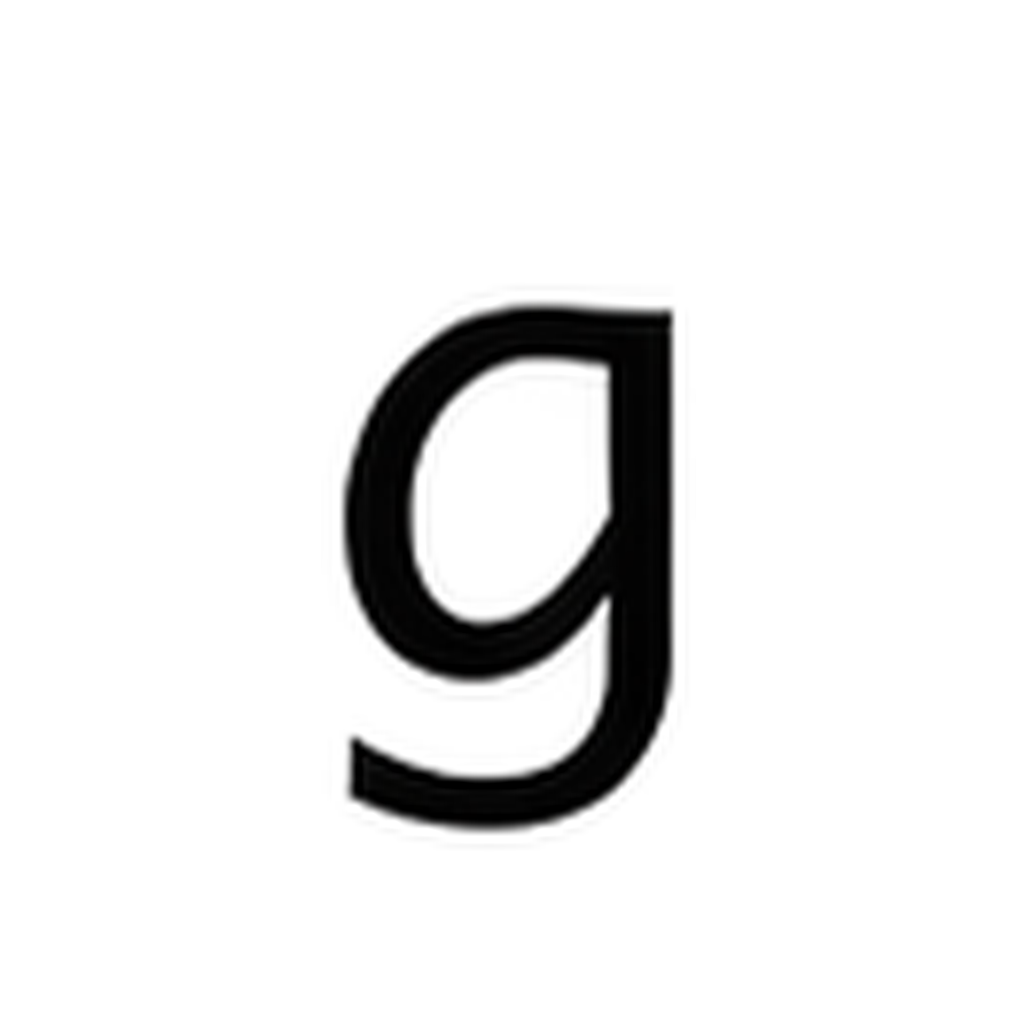
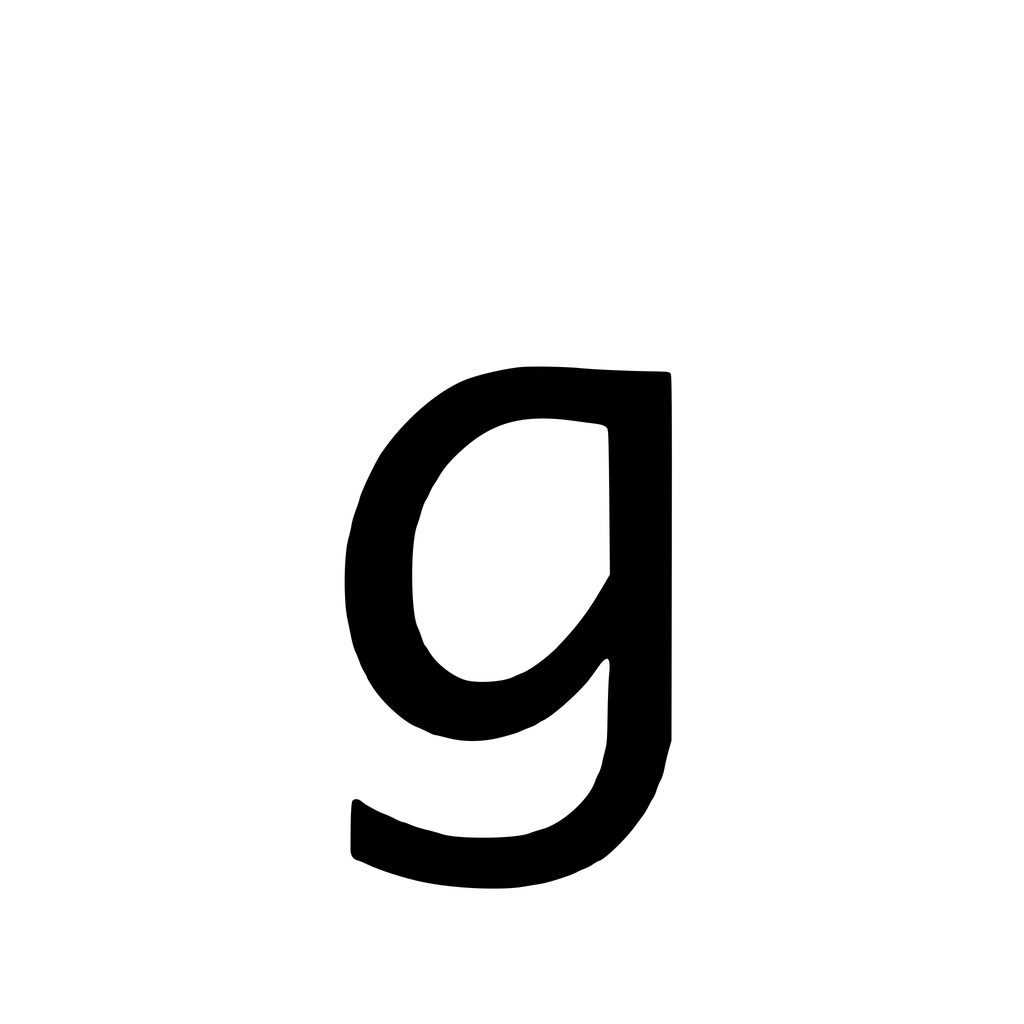
WIP

Changed region(s): [[0.3125, 0.2812, 0.6875, 0.875]]

diff --git a/fonts/font1/regular/preview-font.py b/fonts/font1/regular/preview-font.py
@@ -58,8 +58,8 @@ def specimen(from_font):
     canvas = Image.new("RGB", (1600, 1320), "#fafbfc")
     draw = ImageDraw.Draw(canvas)
     kind = "TrueType rendering" if from_font else "glyph PNG rendering"
-    draw.text((64, 32), f"Font1 Regular 0.201 / {kind}", font=label(24), fill="#1a2735")
-    draw.text((64, 74), "Refined lowercase / original g and s / shorter i and l bars", font=label(18), fill="#586878")
+    draw.text((64, 32), f"Font1 Regular 0.202 / {kind}", font=label(24), fill="#1a2735")
+    draw.text((64, 74), "Refined lowercase / balanced g and p vertical positions", font=label(18), fill="#586878")
 
     def line(text, y, size, x=64):
         if from_font:
@@ -98,7 +98,7 @@ def comparison():
     draw = ImageDraw.Draw(canvas)
     for row, (title, directory) in enumerate([
         ("Monaco", ROOT.parent.parent / "monaco-ascii"),
-        ("font1 Regular 0.201", ROOT),
+        ("font1 Regular 0.202", ROOT),
         ("Droid Sans", ROOT.parent.parent / "droid"),
         ("JetBrains Mono", ROOT.parent.parent / "jetbrains"),
     ]):
@@ -114,7 +114,7 @@ def lowercase_review(before_font):
     canvas = Image.new("RGB", (1600, 1220), "white")
     draw = ImageDraw.Draw(canvas)
     draw.text((64, 30), "Font1 Regular / lowercase refinement", font=label(28), fill="#1a2735")
-    draw.text((64, 79), "Same size and advance. Before 0.100 / After 0.201", font=label(18), fill="#586878")
+    draw.text((64, 79), "Same size and advance. Before 0.100 / After 0.202", font=label(18), fill="#586878")
     for group, characters in enumerate(["abcdefghijklm", "nopqrstuvwxyz"]):
         for revision, (title, font) in enumerate([
             ("Before", before_font), ("After", ROOT / "Font1-Regular.ttf"),
@@ -136,11 +136,11 @@ def lowercase_review(before_font):
 def weight_comparison():
     canvas = Image.new("RGB", (1600, 990), "#fafbfc")
     draw = ImageDraw.Draw(canvas)
-    draw.text((52, 30), "Font1 / Regular 0.201 and Bold", font=label(26), fill="#1a2735")
+    draw.text((52, 30), "Font1 / Regular 0.202 and Bold", font=label(26), fill="#1a2735")
     draw.text((52, 74), "Cap height matched across all three samples", font=label(18), fill="#586878")
     for index, (title, directory) in enumerate([
         ("Monaco Regular", ROOT.parent.parent / "monaco-ascii"),
-        ("font1 Regular 0.201", ROOT),
+        ("font1 Regular 0.202", ROOT),
         ("font1 Bold", ROOT.parent / "bold"),
     ]):
         alpha = np.asarray(Image.open(directory / "glyphs/U0048.png").getchannel("A"))
@@ -158,10 +158,47 @@ def weight_comparison():
     canvas.save(ROOT.parent / "weights-comparison.png")
 
 
+def position_review(before_font):
+    """Compare the changed bowls against shared baseline and x-height guides."""
+    canvas = Image.new("RGB", (1500, 1160), "#fafbfc")
+    draw = ImageDraw.Draw(canvas)
+    draw.text((56, 30), "Font1 Regular / g and p vertical positions", font=label(27), fill="#1a2735")
+    draw.text((56, 78), "Same shapes and advance. Shared baseline / lowercase-height guides.",
+              font=label(18), fill="#586878")
+    for index, (title, font) in enumerate([
+        ("Before 0.201", before_font), ("After 0.202", ROOT / "Font1-Regular.ttf"),
+    ]):
+        x = 56 + index * 720
+        draw.text((x, 129), title, font=label(20), fill="#405269")
+        draw.line((x, 176, x + 658, 176), fill="#c5d9e9")
+        draw.line((x, 260, x + 658, 260), fill="#a4c2dc")
+        font_line(canvas, "angpo", x + 25, 260, 170, font)
+
+    for index, (title, font) in enumerate([
+        ("Before 0.201", before_font), ("After 0.202", ROOT / "Font1-Regular.ttf"),
+    ]):
+        top = 374 + index * 372
+        draw.rounded_rectangle((40, top, 1460, top + 337), radius=12, fill="#20242b")
+        draw.text((70, top + 22), title, font=label(20), fill="#acbed0")
+        for size, offset in [(32, 76), (36, 207)]:
+            face = ImageFont.truetype(str(font), size)
+            draw.text((70, top + offset - 17), f"{size}px", font=label(13), fill="#acbed0")
+            for line_index, text in enumerate([
+                "So this thing really sends me to the future?",
+                "And the passphrase is...",
+                "Good day, Agent M. How is 1997 treating you?",
+            ]):
+                draw.text((146, top + offset + line_index * 43), text,
+                          font=face, fill="white", anchor="ls")
+    canvas.save(ROOT / "vertical-position-review.png")
+
+
 def main():
     parser = argparse.ArgumentParser(description=__doc__)
     parser.add_argument("--before-font", type=Path,
                         help="Optional previous TTF for lowercase-review.png")
+    parser.add_argument("--before-position-font", type=Path,
+                        help="Previous TTF for the g/p vertical-position review")
     arguments = parser.parse_args()
     for from_font in [False, True]:
         overview(from_font)
@@ -170,6 +207,8 @@ def main():
     weight_comparison()
     if arguments.before_font:
         lowercase_review(arguments.before_font)
+    if arguments.before_position_font:
+        position_review(arguments.before_position_font)
     print("Refreshed PNG/TTF overviews, specimens and reference comparison.")
 
 

diff --git a/fonts/font1/regular/build-font.py b/fonts/font1/regular/build-font.py
@@ -151,10 +151,10 @@ def build_font():
     builder.setupNameTable({
         "familyName": "Font1",
         "styleName": "Regular",
-        "uniqueFontIdentifier": "Font1-Regular-0.201",
+        "uniqueFontIdentifier": "Font1-Regular-0.202",
         "fullName": "Font1 Regular",
         "psName": "Font1-Regular",
-        "version": "Version 0.201",
+        "version": "Version 0.202",
         "typographicFamily": "Font1",
         "typographicSubfamily": "Regular",
         "description": "Font1 Regular. Unicode-encoded ASCII design prototype.",
@@ -180,7 +180,7 @@ def build_font():
         isFixedPitch=1, underlinePosition=-180, underlineThickness=70,
     )
     builder.setupMaxp()
-    builder.setupHead(unitsPerEm=UNITS_PER_EM, fontRevision=0.201, macStyle=0)
+    builder.setupHead(unitsPerEm=UNITS_PER_EM, fontRevision=0.202, macStyle=0)
     builder.font["gasp"] = newTable("gasp")
     builder.font["gasp"].version = 1
     builder.font["gasp"].gaspRange = {65535: 10}
@@ -192,7 +192,7 @@ def build_font():
     builder.save(FONT_PATH)
 
     report = {
-        "family": "Font1", "style": "Regular", "version": "0.201",
+        "family": "Font1", "style": "Regular", "version": "0.202",
         "font": FONT_PATH.name,
         "font_sha256": hashlib.sha256(FONT_PATH.read_bytes()).hexdigest(),
         "units_per_em": UNITS_PER_EM, "advance_units": ADVANCE,

diff --git a/fonts/font1/regular/refine-lowercase.py b/fonts/font1/regular/refine-lowercase.py
@@ -32,6 +32,7 @@ def render(definition, width, size, outline=None):
         SVGPath(str(outline)).draw(pen)
         context.fill()
     else:
+        context.translate(*definition.get("translation_pixels", (0, 0)))
         context.set_line_width(width)
         context.set_line_cap(cairo.LINE_CAP_BUTT)
         context.set_line_join(cairo.LINE_JOIN_ROUND)
